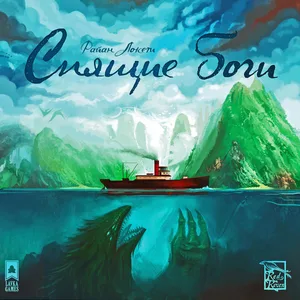
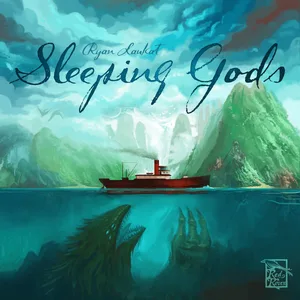
Covers: actual editions for Anton Egorov listings
- Sleeping Gods, Tides of Ruin, Dungeons: English edition (BGG primary image)
- Gloomhaven JotL: Russian edition box (BGG version 577944) instead of promo shot
- New: Dungeoneer, Potion Explosion, Tales of Tails, EXIT Museum, Cartaventura Lhasa, Splendor Duel (Tesera, Russian editions)
- download_bgg_covers.py: per-id COVER_SOURCES (tesera/bgg/bggversion), --ids/--out, white-border trim, placeholder detection

diff --git a/download_bgg_covers.py b/download_bgg_covers.py
@@ -1,48 +1,39 @@
 #!/usr/bin/env python3
 """
-Download board game covers from Tesera.ru (accessible, no bot protection).
-Uses BGG URL slug to construct Tesera game page URL.
+Download board game covers into covers/{bgg_id}.webp (fit into 300x300, WebP q=82).
+
+Default source: Tesera.ru og:image (slug from the BGG URL, see SLUG_OVERRIDES).
+Per-game sources in COVER_SOURCES pin the exact edition when Tesera gives the wrong
+one (Russian instead of English, an unrelated game, a placeholder):
+    ("tesera", slug)          Tesera game page
+    ("bgg", None)             BGG primary image (api.geekdo.com, no key needed)
+    ("bggversion", version)   image of a specific BGG version (e.g. Russian edition)
+
+Usage:
+    python download_bgg_covers.py                 # only games without a cover
+    python download_bgg_covers.py --ids 1,2,3     # (re)download these ids, overwriting
+    python download_bgg_covers.py --ids 1,2 --out /tmp/x   # write candidates elsewhere to compare
+
+Always check new covers visually (contact sheet) before committing:
+Tesera often has only the Russian edition, and slugs can point to another game.
 Requires: pip install curl_cffi pillow
 """
-import re, io, json, time
+import argparse, io, json, re, time
 from pathlib import Path
 from curl_cffi import requests as cffi_requests
-from PIL import Image
+from PIL import Image, ImageChops
 
-CATALOG_HTML = Path(__file__).parent / "index.html"
-COVERS_DIR   = Path(__file__).parent / "covers"
+ROOT         = Path(__file__).parent
+CATALOG_HTML = ROOT / "index.html"
 THUMB_SIZE   = (300, 300)
 MIN_BYTES    = 2000
-
-# ── load catalog ──────────────────────────────────────────────────────────────
-with open(CATALOG_HTML, encoding="utf-8") as f:
-    raw = f.read()
-bgg_data = json.loads(re.search(r'const BGG=(\{.*?\});', raw, re.DOTALL).group(1))
-
-games = {}
-for game_name, v in bgg_data.items():
-    bid = str(v.get("bgg_id", ""))
-    if not bid:
-        continue
-    bgg_url = v.get("bgg_url", "")
-    m = re.search(r'/boardgame/\d+/([^/?#\s]+)', bgg_url)
-    slug = m.group(1) if m else None
-    games[bid] = {"name": game_name, "slug": slug}
-
-COVERS_DIR.mkdir(exist_ok=True)
-
-to_download = {bid: info for bid, info in games.items()
-               if not (COVERS_DIR / f"{bid}.webp").exists()
-               or (COVERS_DIR / f"{bid}.webp").stat().st_size < MIN_BYTES}
-
-print(f"Total: {len(games)} games, need covers: {len(to_download)}")
 
 # Manual slug overrides: BGG slug -> Tesera slug
 SLUG_OVERRIDES = {
     "mysterium":                        "mystery",
     "codenames-duet":                   "codenames",
     "catan":                            "the-settlers-of-catan",
-    "gloomhaven-jaws-of-the-lion":      "gloomhaven-jaws-of-the-lion",
+    "gloomhaven-jaws-of-the-lion":      "gloomhaven-jaws-of-the-Lion",
     "splendor":                         "splendor-2012",
     "inis":                             "inis-2016",
     "keyflower":                        "keyflower-base",
@@ -51,71 +42,130 @@ SLUG_OVERRIDES = {
     "sleeping-gods-tides-of-ruin":      "Sleeping-Gods-Tides-of-Ruin",
     "sleeping-gods-dungeons":           "SleepingGodsDungeons",
     "paper-dungeons-a-dungeon-scrawler-game": "paper-dungeons",
+    "tales-of-tails":                   "podzemelya-i-pesiki",
+}
+
+# Pinned sources by bgg_id (checked visually 2026-11-19)
+COVER_SOURCES = {
+    291457: ("bggversion", 577944),   # Gloomhaven: JotL - Russian edition (Tesera has a placeholder)
+    255984: ("bgg", None),            # Sleeping Gods - English edition
+    283766: ("bgg", None),            # Sleeping Gods: Tides of Ruin - English edition
+    287670: ("bgg", None),            # Sleeping Gods: Dungeons - English edition
+    16443:  ("tesera", "dungeoneer-dragons-of-the-forsaken-desert"),
+    180974: ("tesera", "potion-explosion"),       # "Лаборатория" (Russian Potion Explosion)
+    422437: ("tesera", "podzemelya-i-pesiki"),
+    244918: ("tesera", "exit-the-game-the-mysterious-museum"),
+    327076: ("tesera", "cartaventura-lhassa"),
+    364073: ("tesera", "splendor-duel"),
 }
 
 session = cffi_requests.Session(impersonate="chrome131")
 
-ok = fail = skip_no_slug = 0
 
-for bid, info in sorted(to_download.items(), key=lambda x: x[1]["name"]):
-    name = info["name"]
-    slug = info["slug"]
-    dest = COVERS_DIR / f"{bid}.webp"
+def get_bytes(url):
+    r = session.get(url, timeout=30)
+    if r.status_code == 200 and len(r.content) >= MIN_BYTES:
+        return r.content
+    return None
 
-    if not slug:
-        print(f" SKIP  [{name}] no BGG URL slug")
-        skip_no_slug += 1
-        continue
 
-    tesera_slug = SLUG_OVERRIDES.get(slug, slug)
-    tesera_url = f"https://tesera.ru/game/{tesera_slug}/"
+def from_tesera(slug):
+    r = session.get(f"https://tesera.ru/game/{slug}/", timeout=15, headers={"Accept-Language": "ru,en"})
+    if r.status_code != 200:
+        raise RuntimeError(f"Tesera HTTP {r.status_code} ({slug})")
+    og = re.search(r'og:image["\s]+content="([^"]+)"', r.text)
+    if not og:
+        raise RuntimeError("no og:image on Tesera page")
+    url = og.group(1)
+    if not re.search(r'\.(jpe?g|png|webp)$', url, re.I):
+        raise RuntimeError("Tesera has no cover (placeholder)")
+    return get_bytes(url.replace("200x200xpa", "600x600xpa")) or get_bytes(url)
 
-    try:
-        r = session.get(tesera_url, timeout=15, headers={"Accept-Language": "ru,en"})
 
-        if r.status_code == 404:
-            print(f" 404   [{name}] not on Tesera ({slug})")
-            fail += 1
+def from_geekdo(objectid, objecttype):
+    r = session.get("https://api.geekdo.com/api/geekitems",
+                    params={"objectid": objectid, "objecttype": objecttype}, timeout=20)
+    item = (r.json() or {}).get("item") or {}
+    imgs = item.get("images") or {}
+    url = imgs.get("original") or item.get("imageurl")
+    if not url:
+        raise RuntimeError(f"no image for BGG {objecttype} {objectid}")
+    return get_bytes(url)
+
+
+def trim_white(img):
+    """Crop the near-white padding Tesera adds around boxes."""
+    bg = Image.new("RGB", img.size, (255, 255, 255))
+    diff = ImageChops.difference(img, bg).convert("L").point(lambda v: 255 if v > 12 else 0)
+    box = diff.getbbox()
+    return img.crop(box) if box else img
+
+
+def save_cover(data, dest):
+    img = Image.open(io.BytesIO(data))
+    if img.mode in ("RGBA", "LA", "P"):
+        img = img.convert("RGBA")
+        bg = Image.new("RGB", img.size, (255, 255, 255))
+        bg.paste(img, mask=img.split()[-1])
+        img = bg
+    img = trim_white(img.convert("RGB"))
+    img.thumbnail(THUMB_SIZE, Image.LANCZOS)
+    img.save(dest, "WEBP", quality=82)
+
+
+def main():
+    ap = argparse.ArgumentParser()
+    ap.add_argument("--ids", help="comma-separated bgg ids to (re)download, overwriting")
+    ap.add_argument("--out", default=str(ROOT / "covers"), help="output dir")
+    args = ap.parse_args()
+    out = Path(args.out)
+    out.mkdir(parents=True, exist_ok=True)
+
+    raw = CATALOG_HTML.read_text(encoding="utf-8")
+    bgg_data = json.loads(re.search(r'const BGG=(\{.*?\});', raw, re.DOTALL).group(1))
+    games = {}
+    for game_name, v in bgg_data.items():
+        if not v.get("bgg_id"):
             continue
+        m = re.search(r'/boardgame/\d+/([^/?#\s]+)', v.get("bgg_url") or "")
+        games[int(v["bgg_id"])] = {"name": game_name, "slug": m.group(1) if m else None}
 
-        if r.status_code != 200:
-            print(f" FAIL  [{name}] Tesera HTTP {r.status_code}")
+    if args.ids:
+        want = {int(x) for x in args.ids.split(",") if x.strip()}
+        todo = {b: games.get(b, {"name": str(b), "slug": None}) for b in want}
+    else:
+        todo = {b: i for b, i in games.items()
+                if not (out / f"{b}.webp").exists() or (out / f"{b}.webp").stat().st_size < MIN_BYTES}
+    print(f"Total: {len(games)} games, to download: {len(todo)}")
+
+    ok = fail = 0
+    for bid, info in sorted(todo.items(), key=lambda x: x[1]["name"]):
+        name = info["name"]
+        kind, arg = COVER_SOURCES.get(bid, ("tesera", None))
+        if kind == "tesera" and not arg:
+            arg = SLUG_OVERRIDES.get(info["slug"], info["slug"]) if info["slug"] else None
+        try:
+            if kind == "tesera":
+                if not arg:
+                    raise RuntimeError("no BGG URL slug")
+                data = from_tesera(arg)
+            elif kind == "bgg":
+                data = from_geekdo(bid, "thing")
+            else:
+                data = from_geekdo(arg, "version")
+            if not data:
+                raise RuntimeError("image download failed")
+            dest = out / f"{bid}.webp"
+            save_cover(data, dest)
+            print(f"  OK   [{name}] {kind}:{arg or bid} {dest.stat().st_size // 1024}KB")
+            ok += 1
+            time.sleep(0.3)
+        except Exception as e:
+            print(f" FAIL  [{name}] {kind}:{arg} {e}")
             fail += 1
-            continue
 
-        # extract og:image URL
-        og_m = re.search(r'og:image["\s]+content="([^"]+)"', r.text)
-        if not og_m:
-            print(f" FAIL  [{name}] no og:image on Tesera page")
-            fail += 1
-            continue
+    print(f"\nDone: {ok} saved, {fail} failed")
 
-        og_url = og_m.group(1)
-        # upgrade to 600x600
-        img_url = og_url.replace("200x200xpa", "600x600xpa")
 
-        r2 = session.get(img_url, timeout=15)
-        if r2.status_code != 200 or len(r2.content) < MIN_BYTES:
-            # fallback to 200x200
-            r2 = session.get(og_url, timeout=15)
-
-        if r2.status_code != 200 or len(r2.content) < MIN_BYTES:
-            print(f" FAIL  [{name}] image HTTP {r2.status_code}")
-            fail += 1
-            continue
-
-        img = Image.open(io.BytesIO(r2.content)).convert("RGB")
-        img.thumbnail(THUMB_SIZE, Image.LANCZOS)
-        img.save(dest, "WEBP", quality=82)
-        kb = dest.stat().st_size // 1024
-        print(f"  OK   [{name}] {kb}KB")
-        ok += 1
-        time.sleep(0.3)
-
-    except Exception as e:
-        print(f" ERR   [{name}] {e}")
-        fail += 1
-
-print(f"\nDone: {ok} saved, {fail} failed, {skip_no_slug} skipped (no slug)")
-if fail:
-    print("Re-run to retry failures.")
+if __name__ == "__main__":
+    main()
